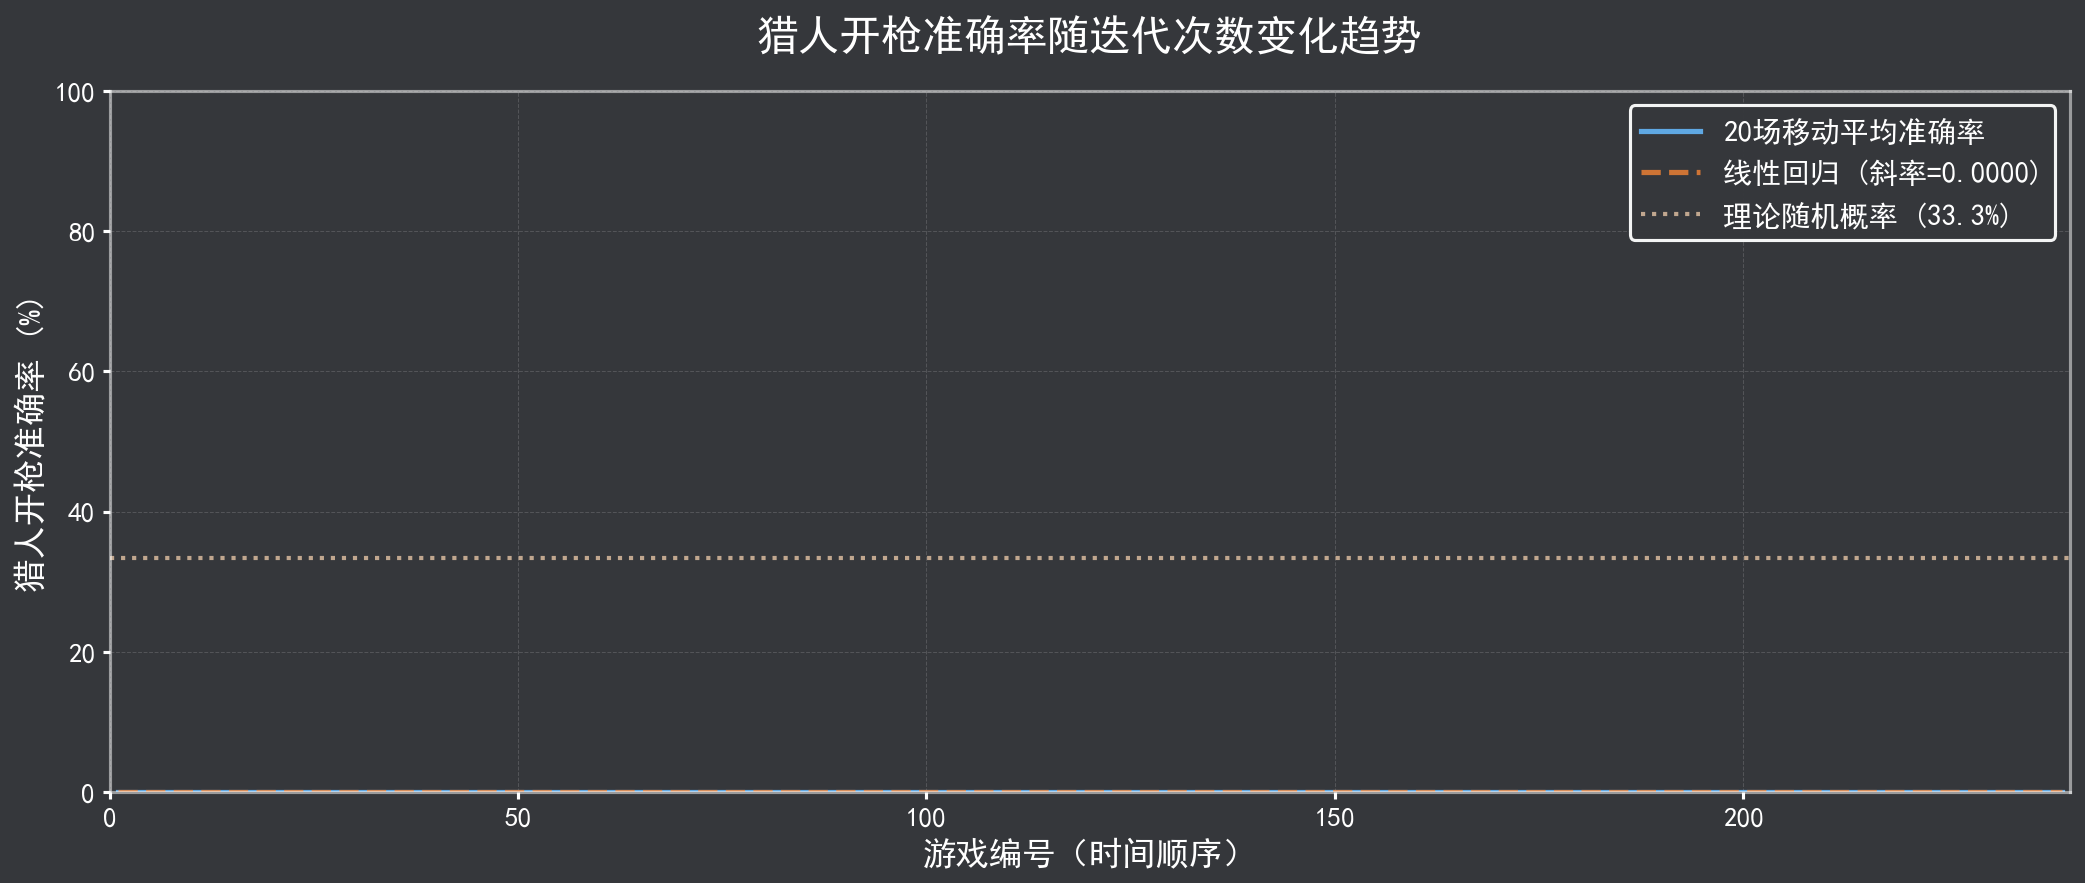
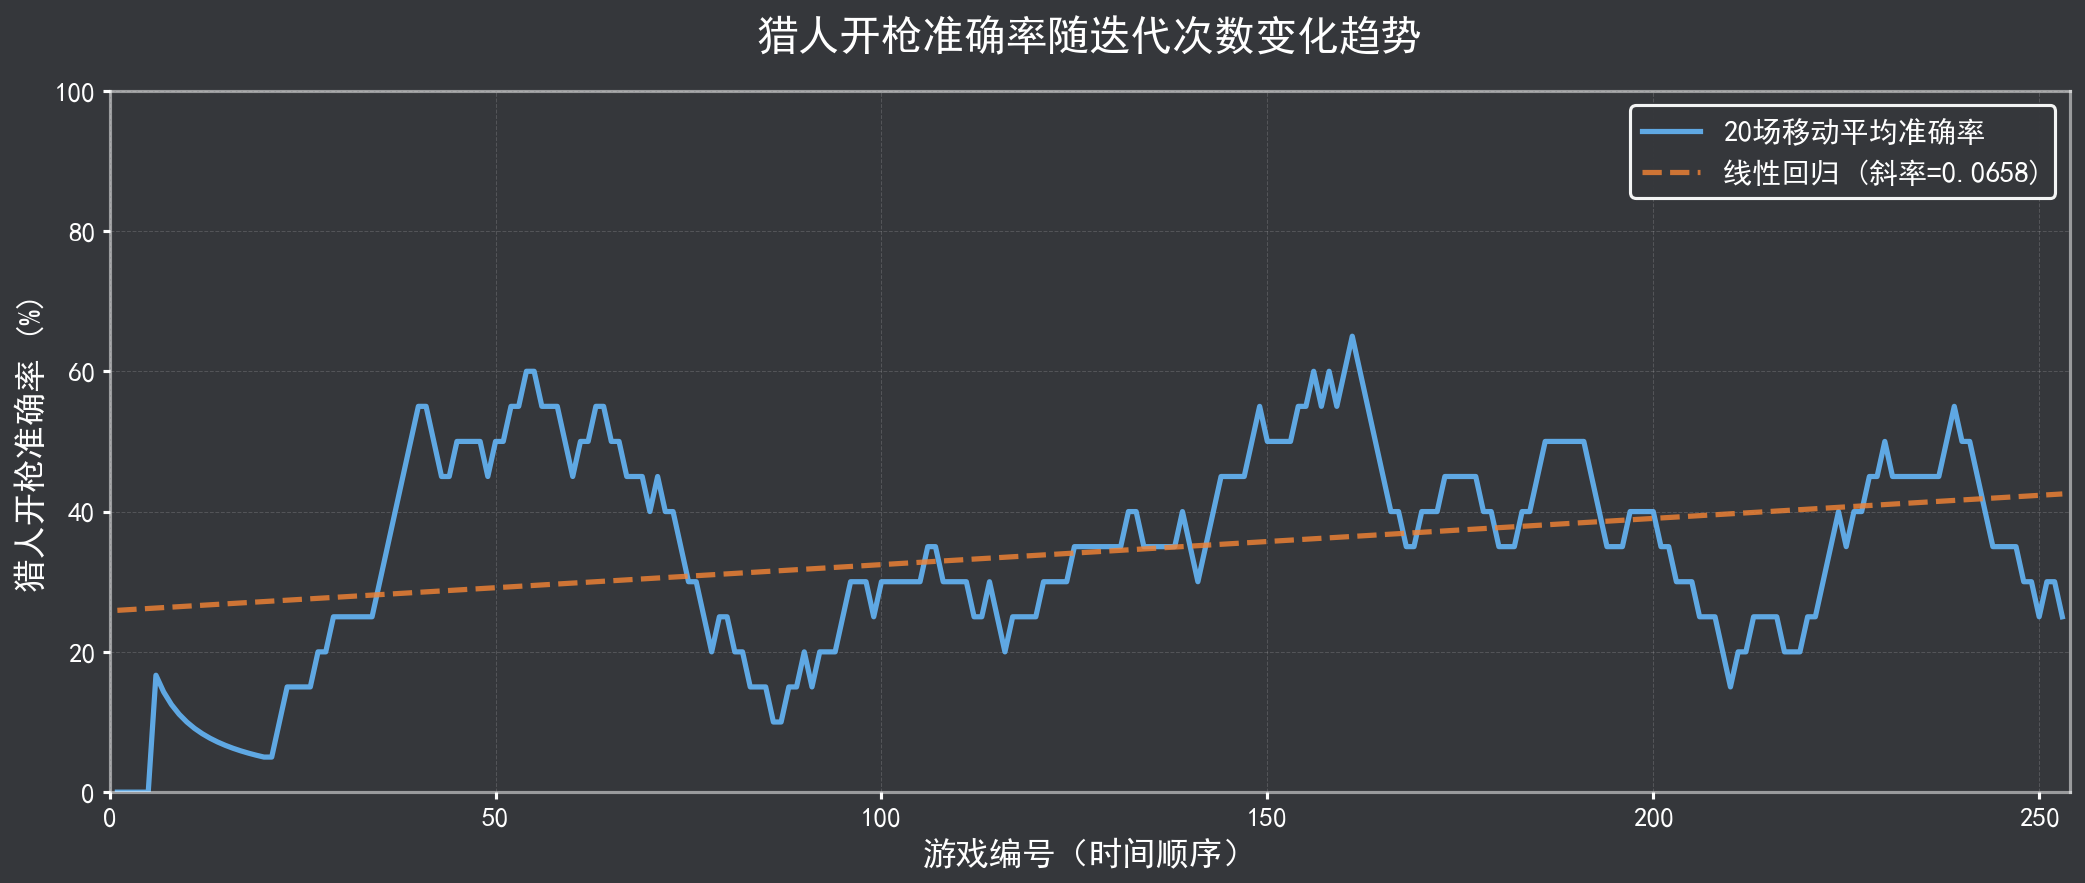
feat: Update game log analysis to improve witch poison and hunter shot detection; add new accuracy trend images

diff --git a/analyze_game_logs.py b/analyze_game_logs.py
@@ -90,21 +90,10 @@ def extract_game_info(file_path: str) -> Dict:
         # 提取女巫毒药使用情况
         witch_poison_target = None
         witch_poison_hit_werewolf = False
+        # 正确的格式是: [WITCH] Deciding...\n    Leo poisons Charlie
         poison_match = re.search(
-            r"\[WITCH\].*?使用毒药.*?目标:\s*([^\s\n]+)", content, re.DOTALL
+            r"\[WITCH\]\s+Deciding\.\.\.\s+\w+\s+poisons\s+(\w+)", content, re.DOTALL
         )
-        if not poison_match:
-            # 尝试另一种格式
-            poison_match = re.search(
-                r"\[WITCH\].*?毒死.*?([^\s\n]+)", content, re.DOTALL
-            )
-        if not poison_match:
-            # 再尝试英文格式
-            poison_match = re.search(
-                r"\[WITCH\].*?poison.*?target:\s*([^\s\n]+)",
-                content,
-                re.DOTALL | re.IGNORECASE,
-            )
 
         if poison_match:
             witch_poison_target = poison_match.group(1)
@@ -114,15 +103,10 @@ def extract_game_info(file_path: str) -> Dict:
         hunter_shot_target = None
         hunter_shot_hit_werewolf = False
 
-        # 查找猎人技能触发
+        # 正确的格式是: [HUNTER SKILL] Ivy activates hunter ability!\n    Ivy shoots Henry!
         hunter_match = re.search(
-            r"\[HUNTER SKILL\].*?([^\s]+)\s+shoots\s+([^\s\n]+)", content, re.DOTALL
+            r"\[HUNTER SKILL\].*?(\w+)\s+shoots\s+(\w+)!", content, re.DOTALL
         )
-        if not hunter_match:
-            # 尝试中文格式
-            hunter_match = re.search(
-                r"\[猎人技能\].*?([^\s]+).*?射杀.*?([^\s\n]+)", content, re.DOTALL
-            )
 
         if hunter_match:
             hunter_shot_target = hunter_match.group(2)
@@ -188,6 +172,11 @@ def analyze_game_logs(logs_dir: str) -> Tuple[List[Dict], List[str]]:
 
     # 按时间排序
     complete_games.sort(key=lambda x: x["timestamp"])
+
+    # 删除最早的30场游戏（可能存在log泄露问题）
+    if len(complete_games) > 30:
+        complete_games = complete_games[30:]
+        print(f"已过滤掉最早的30场游戏，剩余 {len(complete_games)} 场游戏用于分析")
 
     return complete_games, incomplete_games
 
@@ -573,17 +562,6 @@ def plot_first_round_accuracy_trend(complete_games: List[Dict], window_size: int
         alpha=0.8,
     )
 
-    # 添加理论随机概率基准线（33.33%）
-    theoretical_prob = 33.33
-    ax1.axhline(
-        y=theoretical_prob,
-        color=COLOR_ACCENT,
-        linestyle=":",
-        linewidth=2,
-        label=f"理论随机概率 ({theoretical_prob:.1f}%)",
-        alpha=0.7,
-    )
-
     ax1.set_xlabel(
         "游戏编号（时间顺序）", fontsize=16, fontweight="bold", color="white"
     )
@@ -717,17 +695,6 @@ def plot_witch_poison_accuracy_trend(complete_games: List[Dict], window_size: in
         alpha=0.8,
     )
 
-    # 添加理论随机概率基准线
-    theoretical_prob = 33.33
-    ax1.axhline(
-        y=theoretical_prob,
-        color=COLOR_ACCENT,
-        linestyle=":",
-        linewidth=2,
-        label=f"理论随机概率 ({theoretical_prob:.1f}%)",
-        alpha=0.7,
-    )
-
     ax1.set_xlabel(
         "游戏编号（时间顺序）", fontsize=16, fontweight="bold", color="white"
     )
@@ -856,17 +823,6 @@ def plot_hunter_shot_accuracy_trend(complete_games: List[Dict], window_size: int
         linewidth=2.5,
         label=f"线性回归 (斜率={slope:.4f})",
         alpha=0.8,
-    )
-
-    # 添加理论随机概率基准线
-    theoretical_prob = 33.33
-    ax1.axhline(
-        y=theoretical_prob,
-        color=COLOR_ACCENT,
-        linestyle=":",
-        linewidth=2,
-        label=f"理论随机概率 ({theoretical_prob:.1f}%)",
-        alpha=0.7,
     )
 
     ax1.set_xlabel(
